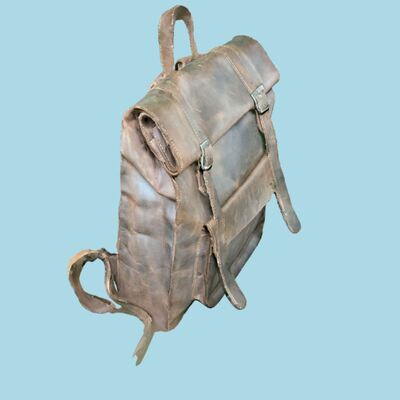
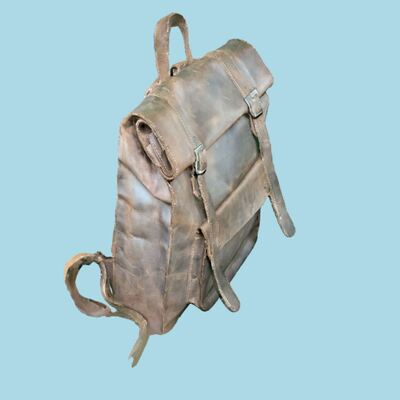
push data

Changed region(s): [[0.15, 0.0, 0.75, 0.93]]

diff --git a/index.html b/index.html
@@ -67,8 +67,8 @@
           <div class="col-md-8">
             <p>Fitsme Scan allows creation of decent textured models using regular iPhones or any other cheap LIDAR-equipped cameras after minor modification.</p>
           </div>
-          <div class="container  Note px-2">Note:   The scans are not prettified using any 3D editing software, but shown as they are generated by our software.</div>
-          <div  id="canvasBlock" class="container canvasBlock d-flex justify-content-center align-items-center ">
+          <div class=" Note px-2 canvasContainer">Note:   The scans are not prettified using any 3D editing software, but shown as they are generated by our software.</div>
+          <div  id="canvasBlock" class="canvasContainer canvasBlock d-flex justify-content-center align-items-center ">
                 <div class="spinner">
                     <img src="./img/SVGEllipse.svg" alt="" >
                 </div>

diff --git a/index.js b/index.js
@@ -35,7 +35,7 @@ document.addEventListener("DOMContentLoaded", async (event) => {
 const formButton = document.getElementById('formButton');
 formButton.addEventListener('click',()=>{
   console.log('try work');
-  document.location='#GetInTouch';
+  // document.location='#GetInTouch';
   const form  = document.getElementById('formElem');
   // const child = form.querySelector('input');
   form.querySelector('input').focus();

diff --git a/style.css b/style.css
@@ -289,6 +289,11 @@ header .row {
   margin-bottom: 20px;
 }
 
+.secondSection .canvasContainer {
+  margin-left: auto;
+  margin-right: auto;
+}
+
 .secondSection .Note {
   background-color: black;
   color: white;
@@ -336,7 +341,6 @@ header .row {
 .secondSection .canvasBlock {
   position: relative;
   border: 3px solid black;
-  min-height: 30vh;
   padding: 0px;
 }
 

diff --git a/style.scss b/style.scss
@@ -194,6 +194,11 @@ header {
 
 
 .secondSection {
+  .canvasContainer{
+    margin-left: auto;
+    margin-right: auto;
+
+  }
 
   .Note{
     background-color: black;
@@ -232,7 +237,7 @@ header {
     .canvasBlock{
         position: relative;
         border: 3px solid black;
-        min-height: 30vh;
+        // min-height: 30vh;
         padding:0px;
     }
   h2 {

diff --git a/mail.php b/mail.php
@@ -1,16 +1,18 @@
 
 <?php 
-$name = $_POST['name'];
-$email = $_POST['email'];
-$message = $_POST['message'];
-$massage = "php worsted langaigh in the world".$name;
-$to = 'alekstok97@mail.ru';
-$subject = 'message from work';
-$sending_message = "message from".$name.''.$message;
-//header("Location: https://www.google.com");
+echo 'working11134'."\r\n";
+// $name = $_POST['name'];
+// $email = $_POST['email'];
+// $message = $_POST['message'];
+// $massage = "php worsted langaigh in the world".$name;
+// $to = 'alekstok97@mail.ru';
+// $subject = 'message from work';
+// $sending_message = "message from".$name.''.$message;
+// //header("Location: https://www.google.com");
 
-$headers = "From: noreply@yoursite.com"."\r\n"."CC:".$name;
-print mail($to, $subject,$massage);
-echo $name;
+// $headers = "From: noreply@yoursite.com"."\r\n"."CC:".$name;
+// // print mail($to, $subject,$massage);
+// echo $name;
+header('HTTP/1.1 404');
 
 ?>
